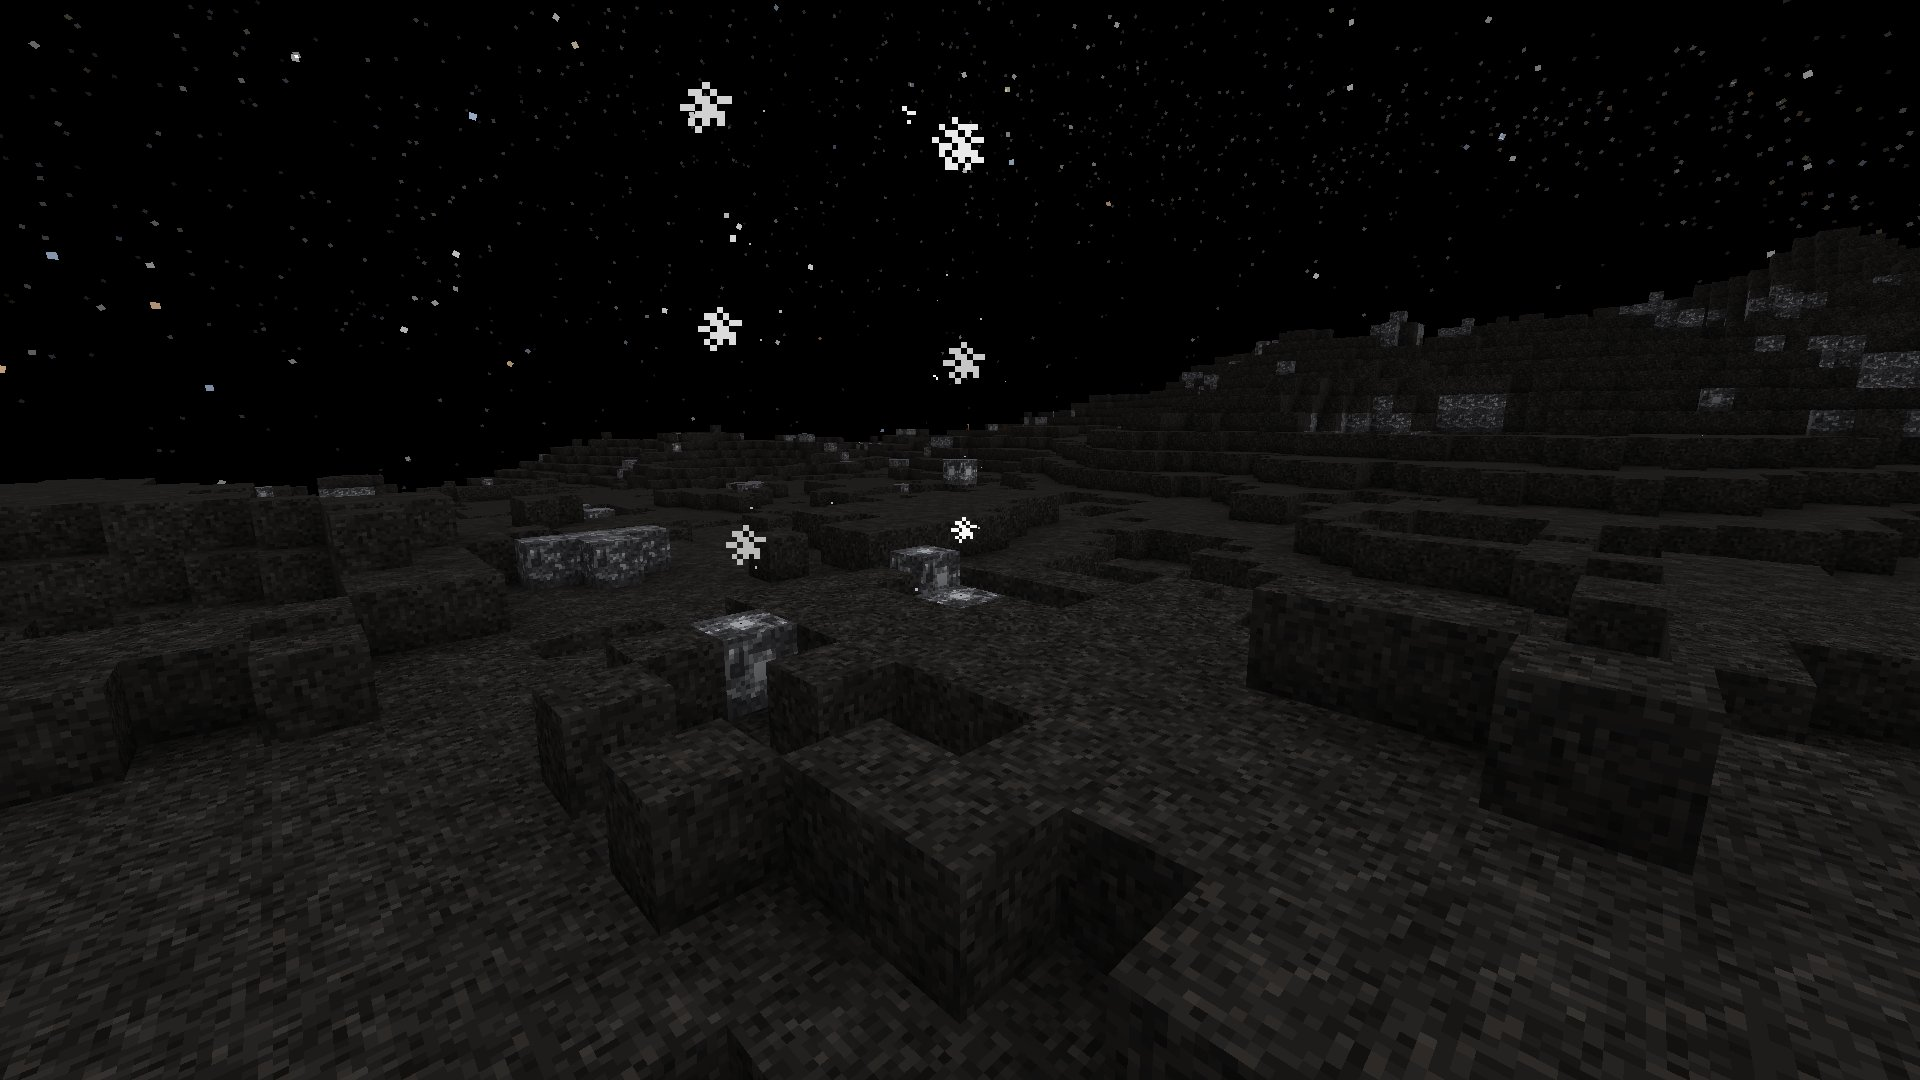
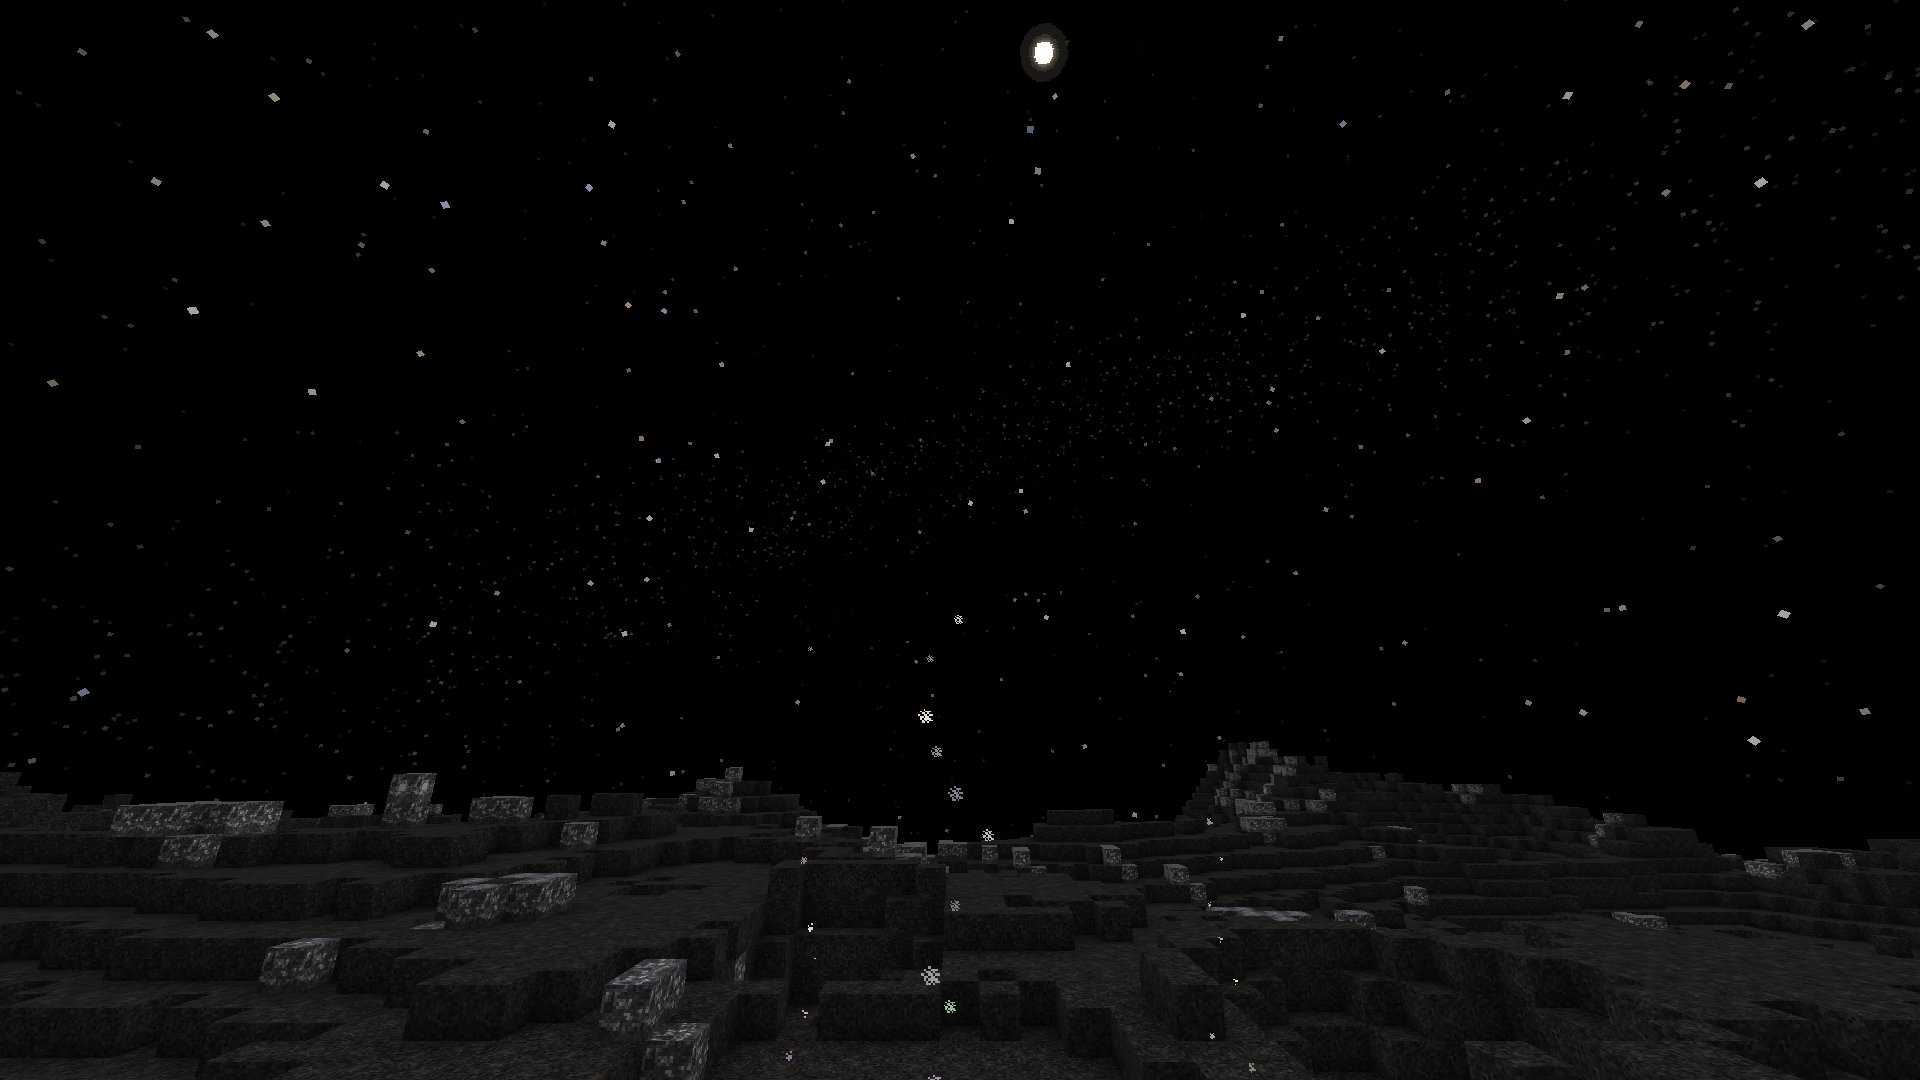
Comets: system achievement and arrival notes, finer jets, Sun and jet in one frame
- ResearchAdvancements.SYSTEMS gains the comets row (67P, Encke, Halley) with its EN+TR achievement name (Ice Wanderers / Buz Gezginleri); the grand tour now includes it; arrival notes for the three comets; the consistency test passes with both
- Comet jets drawn as a thin column of small grey-white dust specks fanning out with height (no large sprites), same cost; active whenever the Sun is above the horizon under open sky
- 67P showcase: the jets with the small bright Sun above them in one frame; TinyMoonTests cover Encke and Halley (bodies from the astro data)
- Landers carry no real mission names anywhere (no signs, books or named items)

diff --git a/src/main/java/com/pizzaparker07/spacebreaker/content/belt/block/CometJetBlock.java b/src/main/java/com/pizzaparker07/spacebreaker/content/belt/block/CometJetBlock.java
@@ -2,7 +2,8 @@ package com.pizzaparker07.spacebreaker.content.belt.block;
 
 import com.pizzaparker07.spacebreaker.core.env.Environment;
 import net.minecraft.core.BlockPos;
-import net.minecraft.core.particles.ParticleTypes;
+import net.minecraft.core.particles.DustParticleOptions;
+import org.joml.Vector3f;
 import net.minecraft.util.RandomSource;
 import net.minecraft.world.level.Level;
 import net.minecraft.world.level.block.Block;
@@ -32,7 +33,7 @@ public class CometJetBlock extends Block {
      * @param y            the jet's y
      */
     public static boolean active(float sunElevation, int columnTop, int y) {
-        return sunElevation > 0.12F && columnTop <= y + 1;
+        return sunElevation > 0.03F && columnTop <= y + 1;
     }
 
     @Override
@@ -40,15 +41,17 @@ public class CometJetBlock extends Block {
         if (!active(level, pos)) {
             return;
         }
-        // the client animates a given block only now and then, so each call draws a whole thin column at once
-        for (int i = 0; i < 8; i++) {
-            double h = 1.05 + i * 0.9 + random.nextDouble() * 0.5;
-            double spread = 0.08 + i * 0.05;
+        // the client animates a given block only now and then, so each call draws a whole thin column at once: small
+        // grey-white specks (1-2 pixels) rising from the vent and fanning out slightly with height, fading as they go
+        for (int i = 0; i < 16; i++) {
+            double h = 1.05 + i * 0.45 + random.nextDouble() * 0.3;
+            double spread = 0.05 + i * 0.03;
             double x = pos.getX() + 0.5 + (random.nextDouble() - 0.5) * spread * 2;
             double z = pos.getZ() + 0.5 + (random.nextDouble() - 0.5) * spread * 2;
-            level.addParticle(i % 3 == 0 ? ParticleTypes.CLOUD : ParticleTypes.WHITE_ASH, x, pos.getY() + h, z,
-                    (random.nextDouble() - 0.5) * 0.03, 0.12 + random.nextDouble() * 0.1, (random.nextDouble() - 0.5) * 0.03);
+            float grey = 0.78F + random.nextFloat() * 0.22F;
+            float size = 0.8F - i * 0.025F;
+            level.addParticle(new DustParticleOptions(new Vector3f(grey, grey, grey * 1.02F), size), x, pos.getY() + h, z,
+                    (x - pos.getX() - 0.5) * 2, 2.0, (z - pos.getZ() - 0.5) * 2);
         }
-        level.addParticle(ParticleTypes.ASH, pos.getX() + 0.5, pos.getY() + 1.1, pos.getZ() + 0.5, 0, 0.2, 0);
     }
 }

diff --git a/src/testmod/java/com/pizzaparker07/spacebreaker/testmod/outer/TinyMoonTests.java b/src/testmod/java/com/pizzaparker07/spacebreaker/testmod/outer/TinyMoonTests.java
@@ -33,7 +33,8 @@ public final class TinyMoonTests {
     private static final List<TinyWorld> WORLDS = List.of(PlutoMoonlets.NIX, PlutoMoonlets.HYDRA, Proteus.PROTEUS,
             com.pizzaparker07.spacebreaker.content.neptune.Nereid.NEREID, com.pizzaparker07.spacebreaker.content.belt.NearEarthAsteroids.BENNU,
             com.pizzaparker07.spacebreaker.content.belt.NearEarthAsteroids.RYUGU, com.pizzaparker07.spacebreaker.content.belt.NearEarthAsteroids.EROS,
-            com.pizzaparker07.spacebreaker.content.belt.NearEarthAsteroids.ITOKAWA, com.pizzaparker07.spacebreaker.content.belt.Comets.CHURYUMOV);
+            com.pizzaparker07.spacebreaker.content.belt.NearEarthAsteroids.ITOKAWA, com.pizzaparker07.spacebreaker.content.belt.Comets.CHURYUMOV,
+            com.pizzaparker07.spacebreaker.content.belt.Comets.ENCKE, com.pizzaparker07.spacebreaker.content.belt.Comets.HALLEY);
 
     @GameTest(template = WorldTests.EMPTY, timeoutTicks = 200)
     public static void tinyMoonsAreWorlds(GameTestHelper helper) {
@@ -60,7 +61,7 @@ public final class TinyMoonTests {
             var holder = Bodies.registry(access).orElseThrow().getHolder(ResourceKey.create(Bodies.REGISTRY, Spacebreaker.id(w.name))).orElseThrow();
             boolean refuels = holder.is(refuel);
             boolean water = w == PlutoMoonlets.NIX || w == PlutoMoonlets.HYDRA || w == com.pizzaparker07.spacebreaker.content.neptune.Nereid.NEREID
-                    || w == com.pizzaparker07.spacebreaker.content.belt.Comets.CHURYUMOV;
+                    || com.pizzaparker07.spacebreaker.content.belt.Comets.all().contains(w);
             helper.assertTrue(refuels == water, w.name + (refuels ? " refuels" : " does not refuel"));
         }
         // Proteus: Pharos scoops out its west side

diff --git a/src/main/java/com/pizzaparker07/spacebreaker/content/research/data/ResearchAdvancements.java b/src/main/java/com/pizzaparker07/spacebreaker/content/research/data/ResearchAdvancements.java
@@ -164,6 +164,7 @@ public final class ResearchAdvancements implements AdvancementSubProvider {
             {"neptune_system", "nitrogen_geyser", "triton", "proteus", "nereid"},
             {"kuiper_gate", "tholin_sand", "pluto", "charon", "nix", "hydra"},
             {"near_earth", "bennu_boulder", "bennu", "ryugu", "eros", "itokawa"},
+            {"comets", "comet_ice", "churyumov_gerasimenko", "encke", "halley"},
     };
 
     private static net.minecraft.world.item.Item item(String path) {
@@ -250,6 +251,7 @@ public final class ResearchAdvancements implements AdvancementSubProvider {
         a(l, "neptune_system", "Edge of the Blue Giant", "Land on Triton, Proteus or Nereid", "Mavi Devin Kıyısı", "Triton'a, Proteus'a ya da Nereid'e in");
         a(l, "kuiper_gate", "Gateway to the Kuiper Belt", "Land on Pluto or one of its moons", "Kuiper'in Kapısı", "Plüton'a ya da uydularından birine in");
         a(l, "near_earth", "Close Visitors", "Land on a near-Earth asteroid", "Yakın Ziyaretçiler", "Dünya'ya yakın bir asteroite in");
+        a(l, "comets", "Ice Wanderers", "Land on a comet", "Buz Gezginleri", "Bir kuyruklu yıldıza in");
         a(l, "grand_tour", "Solar System Wanderer", "Land on a world in every one of these systems", "Güneş Sistemi Gezgini", "Bu sistemlerin her birinde bir dünyaya in");
         a(l, "deep_breath", "Deep Breath", "Get an oxygen tank", "Derin Nefes", "Bir oksijen tüpü edin");
     }

diff --git a/src/testmod/java/com/pizzaparker07/spacebreaker/testmod/showcase/TinyMoonScenario.java b/src/testmod/java/com/pizzaparker07/spacebreaker/testmod/showcase/TinyMoonScenario.java
@@ -38,16 +38,16 @@ final class TinyMoonScenario extends OuterShowcase {
             look(level, "03_" + extra, extraX + 200, z + 60, 20, extraX, z, at(0.12), 240, MoonScenario::farView);
         }
         if (com.pizzaparker07.spacebreaker.content.belt.Comets.all().contains(world)) {
-            // a cluster of jets in noon sunlight, seen from a few blocks away
+            // a cluster of jets in the low morning sun, seen from the west so the Sun stands just above them
             int gx = 60;
             int gz = -40;
-            for (int[] o : new int[][]{{0, 0}, {3, 1}, {-2, 3}}) {
+            for (int[] o : new int[][]{{0, 0}, {2, 3}, {3, -2}}) {
                 int y = (int) ground(level, gx + o[0], gz + o[1]);
                 level.setBlock(new net.minecraft.core.BlockPos(gx + o[0], y, gz + o[1]),
                         com.pizzaparker07.spacebreaker.content.belt.Comets.JET.get().defaultBlockState(), 3);
             }
-            double y = ground(level, gx + 7, gz - 7) + 2.6;
-            shot("03_comet_jets", gx + 7.5, y, gz - 6.5, MoonScenario.yaw(-7, 7), 10F, 160, at(0.25), null);
+            double y = Math.max(ground(level, gx - 7, gz), ground(level, gx, gz)) + 5.5;
+            shot("03_comet_jets", gx - 6.5, y, gz + 0.5, MoonScenario.yaw(7, 0), -18F, 160, at(0.12), null);
         }
         lander(level, LanderPiece.Variant.valueOf(world.name.toUpperCase(Locale.ROOT)), "04_crashed_lander", 0.12);
     }

diff --git a/src/main/java/com/pizzaparker07/spacebreaker/content/belt/OuterArrivals.java b/src/main/java/com/pizzaparker07/spacebreaker/content/belt/OuterArrivals.java
@@ -72,6 +72,12 @@ public final class OuterArrivals {
                 "Bir uzay aracının yörüngesine girip indiği ilk asteroit; uzun ve taşlı.");
         note("itokawa", "A peanut of two rubble lumps; the smooth gravel of the Muses Sea lies in its neck.",
                 "İki moloz parçasından bir fıstık; boynunda Muses Denizi'nin düz çakılı uzanır.");
+        note("churyumov_gerasimenko", "A two-lobed comet nucleus under dust darker than charcoal. In sunlight, jets of gas lift from the ice.",
+                "Kömürden koyu tozun altında iki loblu bir kuyruklu yıldız çekirdeği. Güneş vurunca buzdan gaz jetleri yükselir.");
+        note("encke", "The comet with the shortest orbit, back near the Sun every 3.3 years: old, small and nearly worn out.",
+                "En kısa yörüngeli kuyruklu yıldız, her 3,3 yılda Güneş'e döner: yaşlı, küçük ve neredeyse tükenmiş.");
+        note("halley", "The most famous comet, seen from Earth for over two thousand years: a long nucleus blacker than coal.",
+                "İki bin yılı aşkın süredir Dünya'dan görülen en ünlü kuyruklu yıldız: kömürden kara, uzun bir çekirdek.");
     }
 
     private OuterArrivals() {

diff --git a/src/testmod/java/com/pizzaparker07/spacebreaker/testmod/outer/CometTests.java b/src/testmod/java/com/pizzaparker07/spacebreaker/testmod/outer/CometTests.java
@@ -20,7 +20,7 @@ public final class CometTests {
         helper.assertTrue(CometJetBlock.active(1.2F, 65, 64), "a jet rises in sunlight");
         helper.assertFalse(CometJetBlock.active(1.2F, 70, 64), "but not under a roof");
         helper.assertFalse(CometJetBlock.active(-0.5F, 65, 64), "nor at night");
-        helper.assertFalse(CometJetBlock.active(0.05F, 65, 64), "nor with the sun on the horizon");
+        helper.assertFalse(CometJetBlock.active(0.01F, 65, 64), "nor with the sun on the horizon");
         helper.assertTrue(Comets.JET.get().defaultBlockState().is(net.minecraft.tags.BlockTags.MINEABLE_WITH_SHOVEL), "dug with a shovel");
         helper.succeed();
     }
